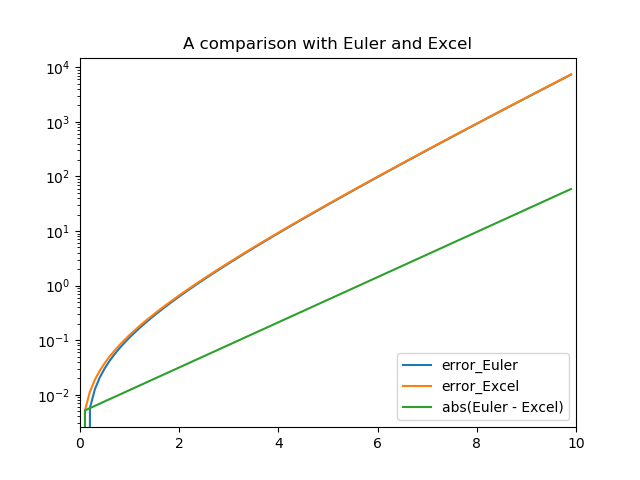
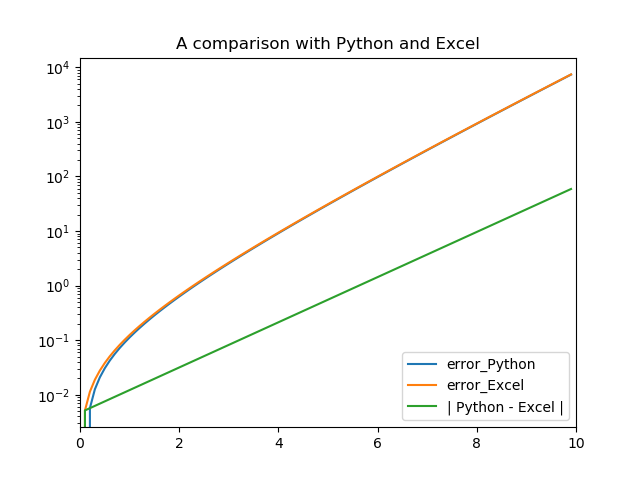
modify lecture3 coding

Changed region(s): [[0.625, 0.7188, 0.875, 0.875], [0.2812, 0.0625, 0.75, 0.125]]

diff --git a/src/lecture3.py b/src/lecture3.py
@@ -58,10 +58,10 @@ if __name__ == '__main__':
 
     # graph2
     fig, ax = plt.subplots()
-    ax.plot(t[:-1], error[:-1], label='error_Euler')
+    ax.plot(t[:-1], error[:-1], label='error_Python')
     ax.plot(t[:-1], np.abs(f_exact[:-1] - excel[:, 1]), label='error_Excel')
-    ax.plot(t[:-1], np.abs(f_approx[:-1] - excel[:, 1]), label='abs(Euler - Excel)')
-    plt.title("A comparison with Euler and Excel")
+    ax.plot(t[:-1], np.abs(f_approx[:-1] - excel[:, 1]), label='| Python - Excel |')
+    plt.title("A comparison with Python and Excel")
     plt.legend(loc='lower right')
     plt.xlim(np.min(t), np.max(t))
     plt.yscale("log")
@@ -102,10 +102,10 @@ if __name__ == '__main__':
 
     # graph2
     fig, ax = plt.subplots()
-    ax.plot(t[:-1], error[:-1], label='error_Adams-Bashforth')
+    ax.plot(t[:-1], error[:-1], label='error_Python')
     ax.plot(t[:-1], np.abs(f_exact[:-1] - excel[:, 2]), label='error_Excel')
-    ax.plot(t[:-1], np.abs(g_approx[:-1] - excel[:, 2]), label='abs(Adams-Bashforth - Excel)')
-    plt.title("A comparison with Adams-Bashforth and Excel")
+    ax.plot(t[:-1], np.abs(g_approx[:-1] - excel[:, 2]), label='| Python - Excel |')
+    plt.title("A comparison with Python and Excel")
     plt.legend(loc='right')
     plt.xlim(np.min(t), np.max(t))
     plt.yscale("log")
